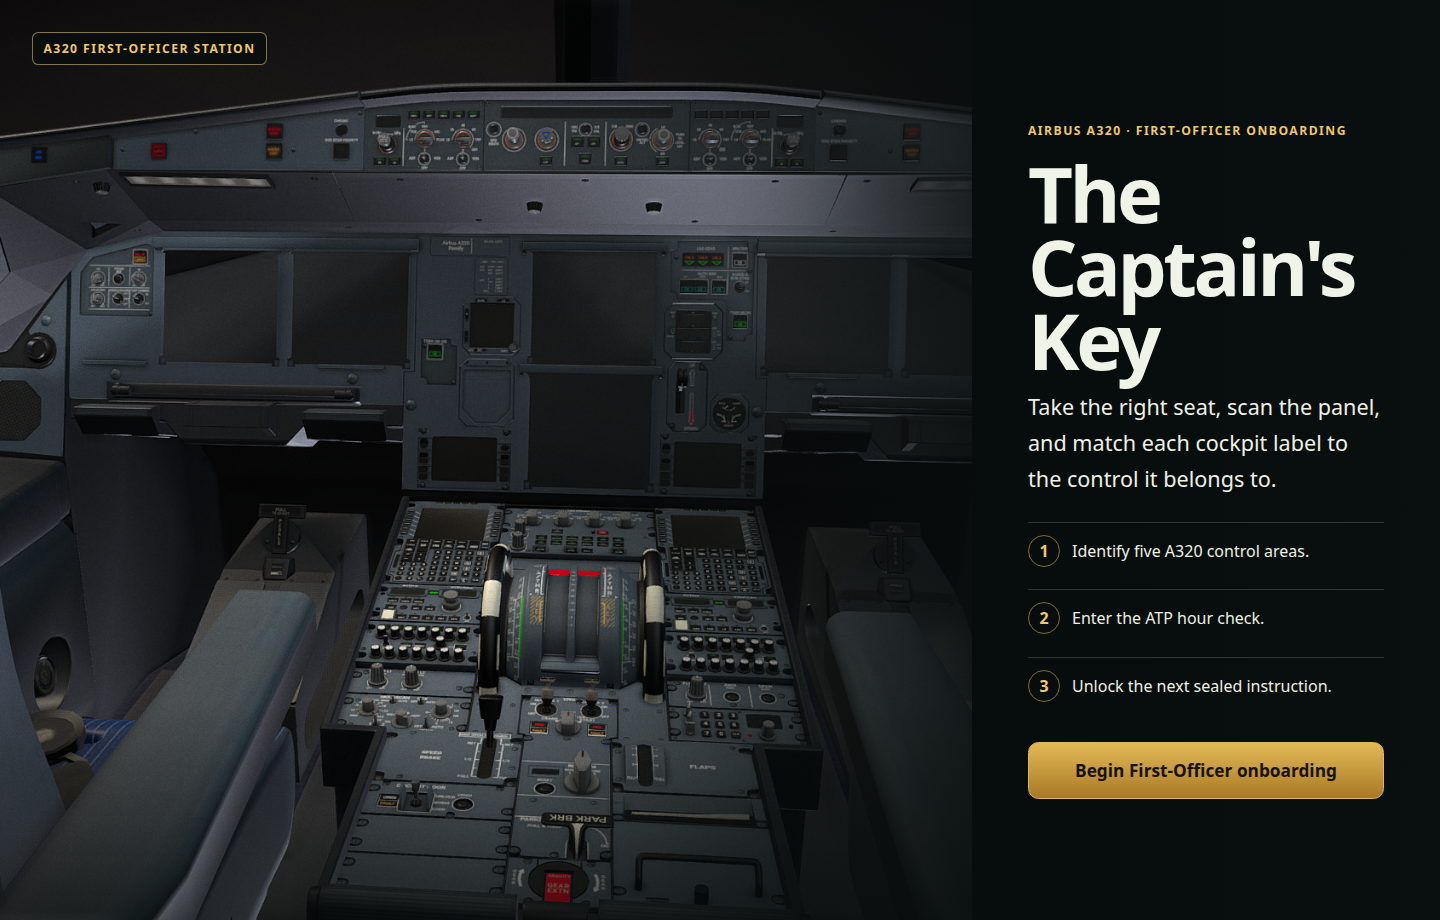
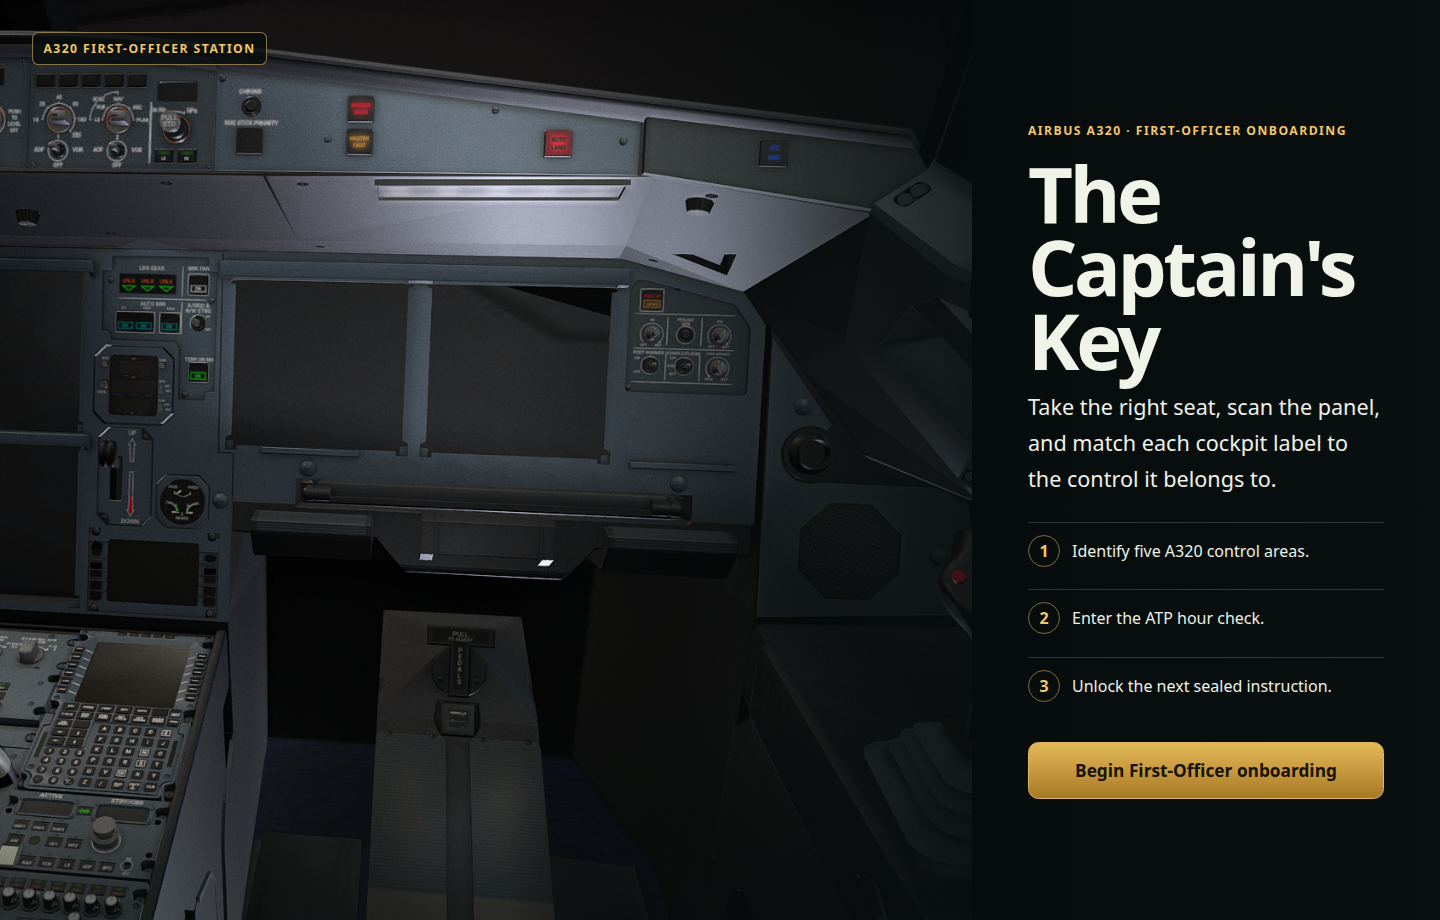
Use first-officer view on opening page

diff --git a/src/App.tsx b/src/App.tsx
@@ -45,7 +45,7 @@ export default function App() {
       <main className="briefing-shell">
         <section className="briefing-hero" aria-labelledby="game-title">
           <div className="briefing-visual" aria-hidden="true">
-            <img src={`${import.meta.env.BASE_URL}images/a320-cockpit-integration-proof.png`} alt="" />
+            <img src={`${import.meta.env.BASE_URL}images/a320-fo-view.png`} alt="" />
             <div className="briefing-visual__label">A320 first-officer station</div>
           </div>
 

diff --git a/src/styles.css b/src/styles.css
@@ -87,7 +87,7 @@ a:focus-visible {
   width: 100%;
   height: 100%;
   object-fit: cover;
-  object-position: 47% center;
+  object-position: 82% center;
   display: block;
 }
 

diff --git a/TEST_REPORT.md b/TEST_REPORT.md
@@ -70,3 +70,13 @@ Update this file with actual evidence after every milestone. Do not replace fail
   - `preview-renders/cockpit-pipeline/a320-cockpit-2-browser-integration/opening-1440.png`
   - `preview-renders/cockpit-pipeline/a320-cockpit-2-browser-integration/opening-768.png`
   - `preview-renders/cockpit-pipeline/a320-cockpit-2-browser-integration/opening-375.png`
+
+## 2026-07-04 First-officer opening image evidence
+
+- Promoted owner-provided screenshot `/home/user1/Pictures/Screenshots/F0-view.png` to `public/images/a320-fo-view.png` for the opening hero image.
+- `npm run check` - pass after switching the opening hero image and tuning the crop toward the FO/right-seat station.
+- `npm run test:e2e -- e2e/smoke.spec.ts` - pass; 3 Chromium smoke tests passed.
+- Playwright screenshots refreshed and reviewed at 1440, 768, and 375 px:
+  - `preview-renders/cockpit-pipeline/a320-cockpit-2-browser-integration/opening-1440.png`
+  - `preview-renders/cockpit-pipeline/a320-cockpit-2-browser-integration/opening-768.png`
+  - `preview-renders/cockpit-pipeline/a320-cockpit-2-browser-integration/opening-375.png`
